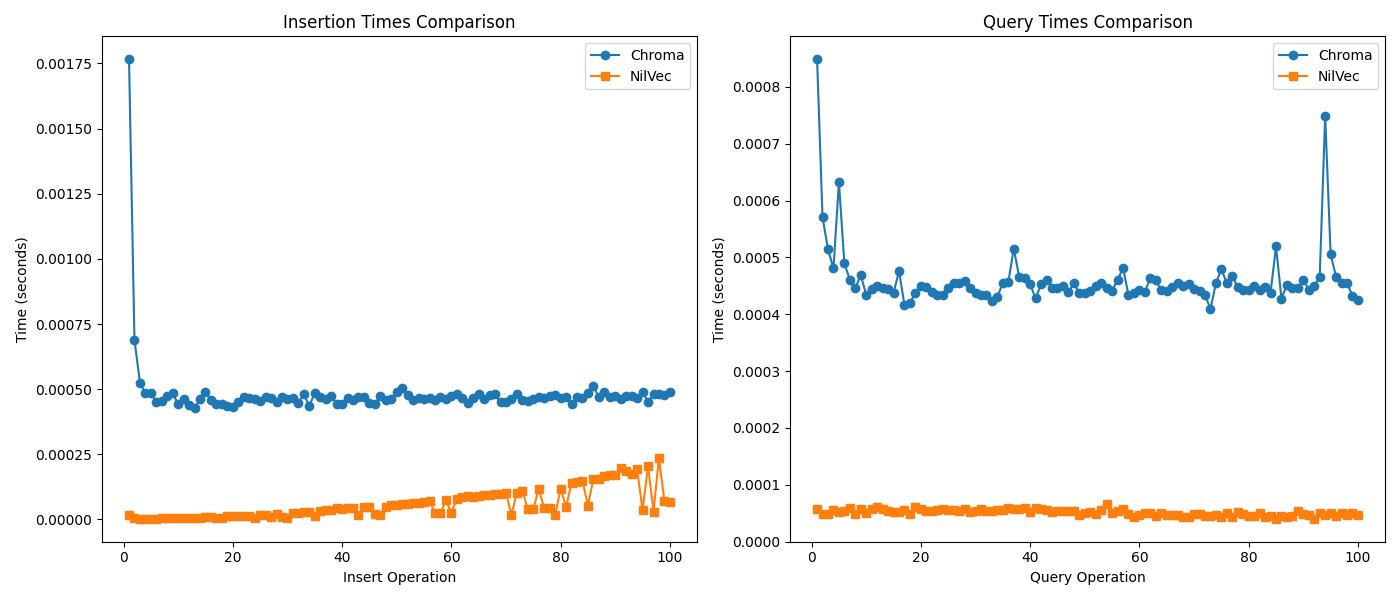
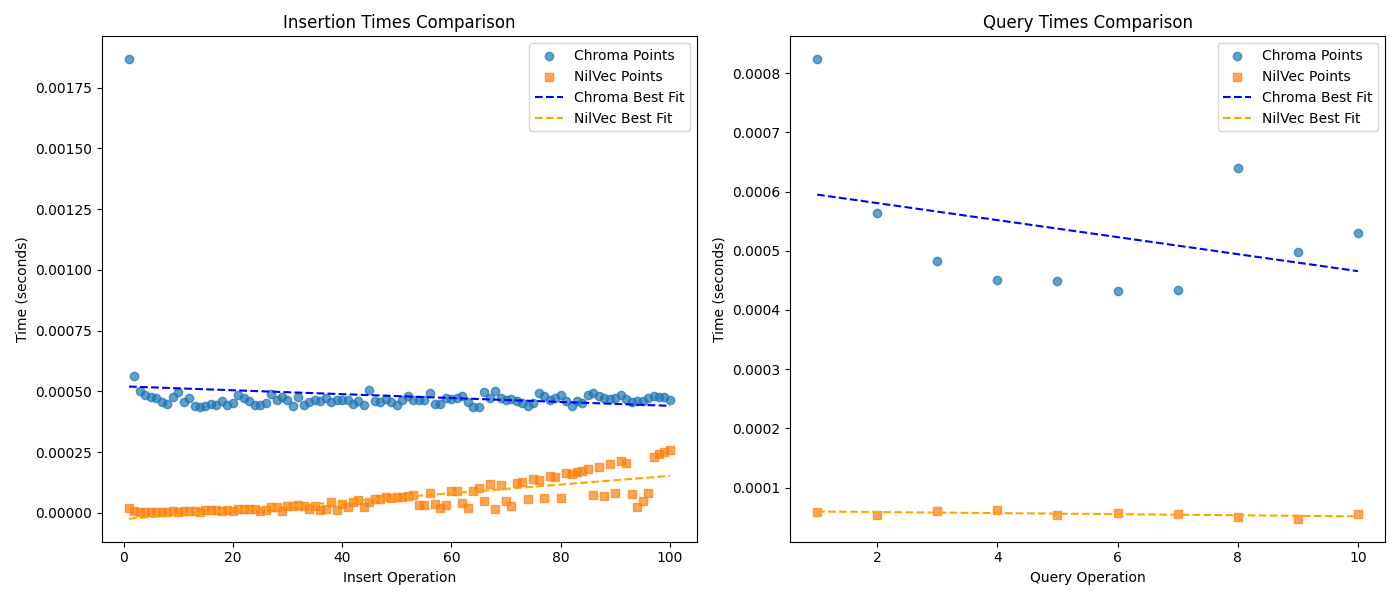
//

diff --git a/main.py b/main.py
@@ -1,5 +1,6 @@
 import time
 import random
+import numpy as np
 import matplotlib.pyplot as plt
 import nilvec  # This is your PyO3 module exposing PyHNSW
 import chromadb
@@ -15,7 +16,7 @@ collection = client.create_collection(name="test_collection")
 # Configuration
 dim = 10             # Dimension of each vector
 num_inserts = 100    # Number of vectors to insert
-num_queries = 100     # Number of search queries to time
+num_queries = 10     # Number of search queries to time
 categories = ["news", "blog", "report"]
 
 # --- Insertion Timing for Chroma ---
@@ -53,7 +54,6 @@ for i in range(num_queries):
     result_count = len(results.get("ids", [[]])[0])
     print(f"[Chroma] Query {i+1}/{num_queries} took {elapsed:.4f} seconds, returned {result_count} results.")
 
-
 # ------------------------------
 # NilVec Test
 # ------------------------------
@@ -87,24 +87,53 @@ for i in range(num_queries):
     nilvec_query_times.append(elapsed)
     print(f"[NilVec] Query {i+1}/{num_queries} took {elapsed:.4f} seconds, returned {len(results)} results.")
 
-
 # ------------------------------
 # Combined Plotting & Saving
 # ------------------------------
 
 fig, (ax1, ax2) = plt.subplots(1, 2, figsize=(14, 6))
 
-# Plot combined insertion times
-ax1.plot(range(1, num_inserts + 1), chroma_insert_times, marker='o', label='Chroma')
-ax1.plot(range(1, num_inserts + 1), nilvec_insert_times, marker='s', label='NilVec')
+# X values for insertion and query operations
+x_inserts = np.arange(1, num_inserts + 1)
+x_queries = np.arange(1, num_queries + 1)
+
+# --- Insertion Times Plot ---
+# Scatter plots with slight transparency and no connecting lines.
+ax1.scatter(x_inserts, chroma_insert_times, marker='o', alpha=0.7, label='Chroma Points')
+ax1.scatter(x_inserts, nilvec_insert_times, marker='s', alpha=0.7, label='NilVec Points')
+
+# Compute and plot best-fit lines.
+# For Chroma:
+coeffs = np.polyfit(x_inserts, chroma_insert_times, 1)
+poly = np.poly1d(coeffs)
+ax1.plot(x_inserts, poly(x_inserts), linestyle='--', color='blue', label='Chroma Best Fit')
+
+# For NilVec:
+coeffs = np.polyfit(x_inserts, nilvec_insert_times, 1)
+poly = np.poly1d(coeffs)
+ax1.plot(x_inserts, poly(x_inserts), linestyle='--', color='orange', label='NilVec Best Fit')
+
 ax1.set_title("Insertion Times Comparison")
 ax1.set_xlabel("Insert Operation")
 ax1.set_ylabel("Time (seconds)")
 ax1.legend()
 
-# Plot combined query times
-ax2.plot(range(1, num_queries + 1), chroma_query_times, marker='o', label='Chroma')
-ax2.plot(range(1, num_queries + 1), nilvec_query_times, marker='s', label='NilVec')
+# --- Query Times Plot ---
+# Scatter plots with slight transparency.
+ax2.scatter(x_queries, chroma_query_times, marker='o', alpha=0.7, label='Chroma Points')
+ax2.scatter(x_queries, nilvec_query_times, marker='s', alpha=0.7, label='NilVec Points')
+
+# Compute and plot best-fit lines.
+# For Chroma:
+coeffs = np.polyfit(x_queries, chroma_query_times, 1)
+poly = np.poly1d(coeffs)
+ax2.plot(x_queries, poly(x_queries), linestyle='--', color='blue', label='Chroma Best Fit')
+
+# For NilVec:
+coeffs = np.polyfit(x_queries, nilvec_query_times, 1)
+poly = np.poly1d(coeffs)
+ax2.plot(x_queries, poly(x_queries), linestyle='--', color='orange', label='NilVec Best Fit')
+
 ax2.set_title("Query Times Comparison")
 ax2.set_xlabel("Query Operation")
 ax2.set_ylabel("Time (seconds)")
